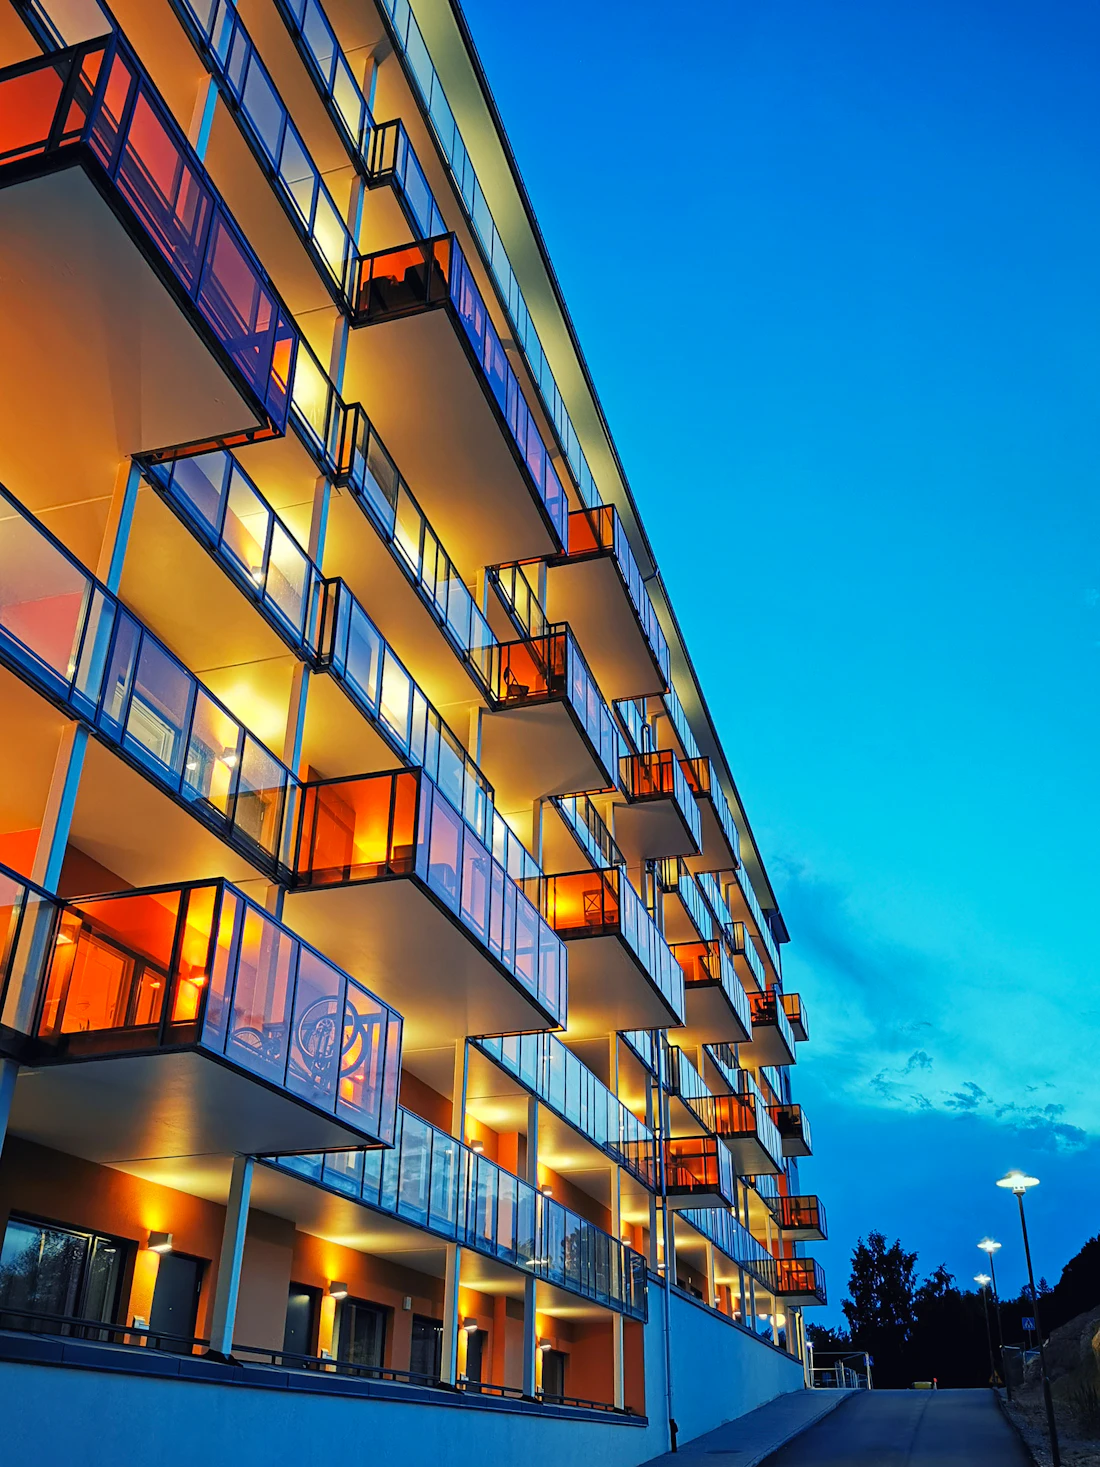
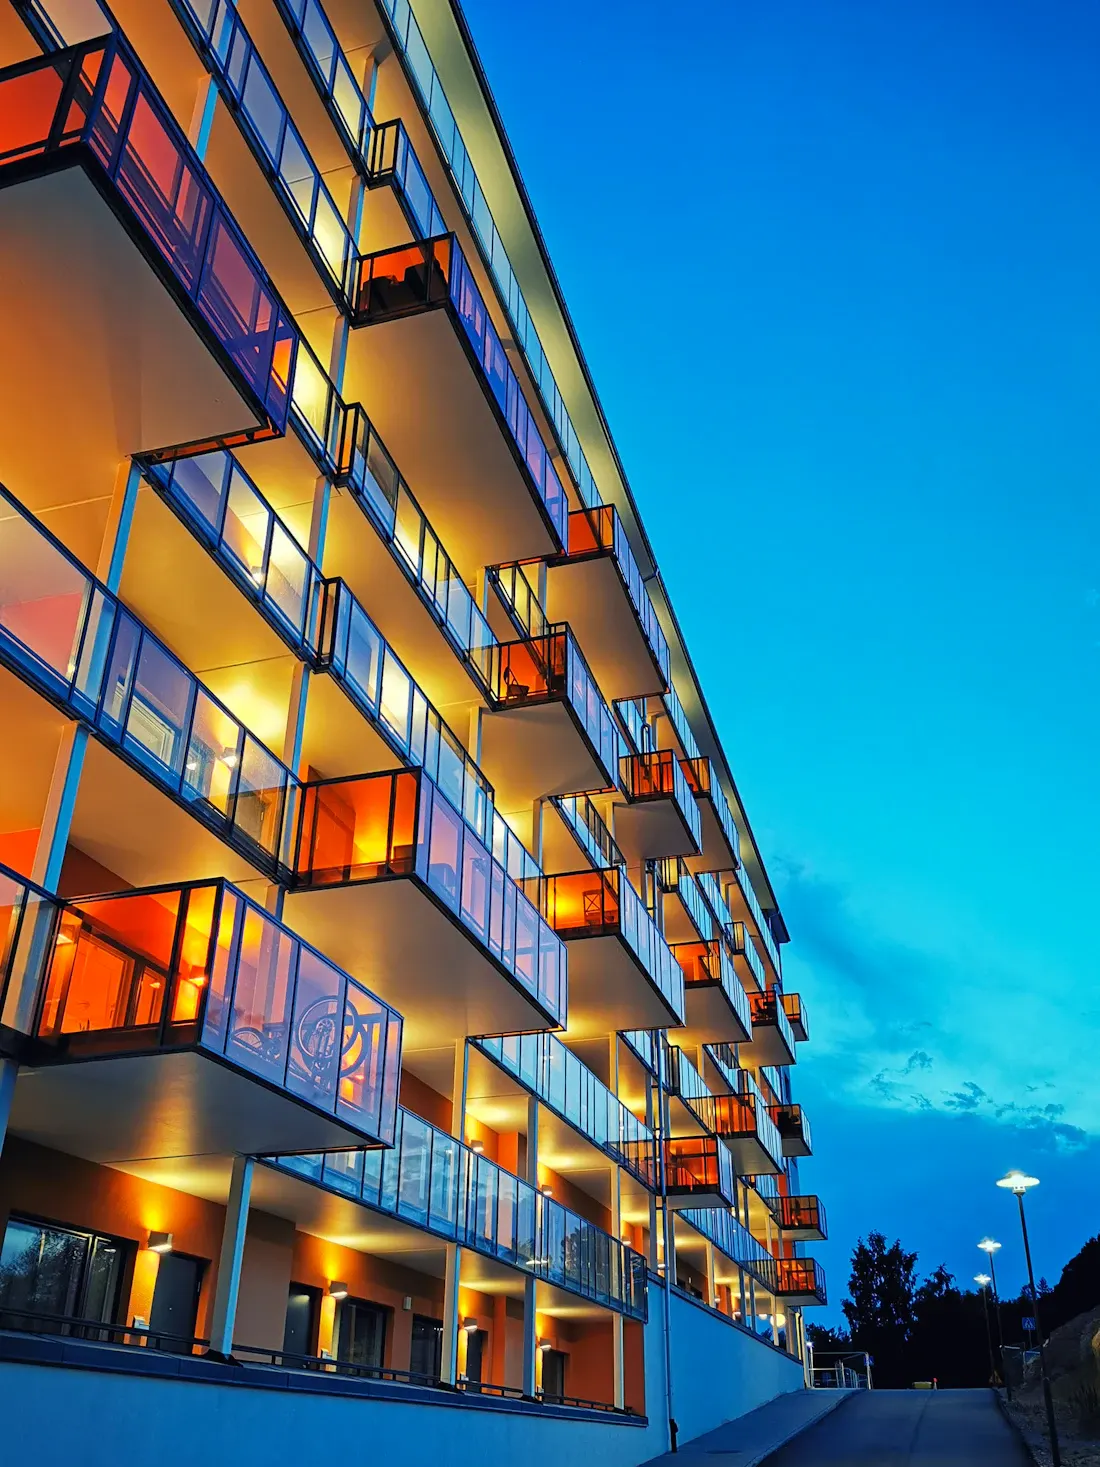
Optimize image weight site-wide to fix slow load times
The header logo alone was 215KB PNG loading on every single page
navigation, displayed at just 38px tall. Fixed the real culprits:

- logo-wordmark.png (215KB) -> logo-wordmark.webp (20.5KB): resized
  to 400px wide (2x the actual 200px max display width) and
  converted to WebP with alpha transparency preserved. 90% smaller.
- logo-navy.png (102KB) -> logo-navy.webp (11KB), footer-only and
  now lazy-loaded. 89% smaller.
- favicon.png: 512x512 (203KB) -> 256x256 (67KB), still far larger
  than any favicon actually renders.
- hero-home.webp, estate.webp, nanny.webp, diaspora-hero.webp:
  re-encoded at quality 0.78-0.80 (visually indistinguishable),
  cutting 30-40% off each of the four largest photos.
- Removed logo-icon-square.png and driver.webp, both dead weight
  no longer referenced anywhere.

Also added width/height attributes (prevents layout shift) and
fetchpriority="high" to every page's primary hero image, and
width/height to the photo-grid thumbnails.

Total referenced image weight cut by roughly 750KB. The single
biggest win is the header logo, since it's fetched on every page.

diff --git a/family.html b/family.html
@@ -46,7 +46,7 @@
 <!-- ============ HEADER ============ -->
 <header class="site-header" id="top">
   <div class="container header-inner">
-    <a href="index.html" class="brand brand-logo"><img src="assets/img/logo-wordmark.png" alt="Amana Staff — Trusted Hands" width="705" height="260"></a>
+    <a href="index.html" class="brand brand-logo"><img src="assets/img/logo-wordmark.webp" alt="Amana Staff — Trusted Hands" width="400" height="148"></a>
 
     <nav class="nav" id="primary-nav">
       <a href="family.html" aria-current="page">Family</a>
@@ -82,7 +82,7 @@
           <a href="#compare" class="btn-text">Compare our services <svg><use href="#icon-arrow"/></svg></a>
         </div>
       </div>
-      <div class="hero-figure"><img src="assets/img/nanny.webp" alt="A mother gently styling her daughter's hair at home" decoding="async"></div>
+      <div class="hero-figure"><img src="assets/img/nanny.webp" alt="A mother gently styling her daughter's hair at home" width="1350" height="1060" fetchpriority="high" decoding="async"></div>
     </div>
   </section>
 
@@ -105,27 +105,27 @@
 
       <div class="photo-grid reveal-stagger">
         <article class="photo-card" data-open-modal="family">
-          <img src="assets/img/nanny.webp" alt="A mother gently styling her daughter's hair at home" loading="lazy" decoding="async">
+          <img src="assets/img/nanny.webp" alt="A mother gently styling her daughter's hair at home" width="1350" height="1060" loading="lazy" decoding="async">
           <span class="arrow"><svg><use href="#icon-arrow"/></svg></span>
           <div class="photo-card-body"><h3>Nannies</h3><p>Childcare you can trust</p></div>
         </article>
         <article class="photo-card" data-open-modal="family">
-          <img src="assets/img/cleaning.webp" alt="A gloved hand mopping a glossy floor" loading="lazy" decoding="async">
+          <img src="assets/img/cleaning.webp" alt="A gloved hand mopping a glossy floor" width="1000" height="573" loading="lazy" decoding="async">
           <span class="arrow"><svg><use href="#icon-arrow"/></svg></span>
           <div class="photo-card-body"><h3>Housekeepers &amp; Cleaners</h3><p>Spotless, every time</p></div>
         </article>
         <article class="photo-card" data-open-modal="family">
-          <img src="assets/img/cook.webp" alt="A cook preparing a meal in a bright home kitchen" loading="lazy" decoding="async">
+          <img src="assets/img/cook.webp" alt="A cook preparing a meal in a bright home kitchen" width="1000" height="667" loading="lazy" decoding="async">
           <span class="arrow"><svg><use href="#icon-arrow"/></svg></span>
           <div class="photo-card-body"><h3>Cooks</h3><p>Meals made with care</p></div>
         </article>
         <article class="photo-card" data-open-modal="family">
-          <img src="assets/img/house-manager.webp" alt="A smiling woman organizing a shelf in a bright modern kitchen" loading="lazy" decoding="async">
+          <img src="assets/img/house-manager.webp" alt="A smiling woman organizing a shelf in a bright modern kitchen" width="1000" height="1409" loading="lazy" decoding="async">
           <span class="arrow"><svg><use href="#icon-arrow"/></svg></span>
           <div class="photo-card-body"><h3>House Managers</h3><p>Your home, expertly run</p></div>
         </article>
         <article class="photo-card" data-open-modal="family">
-          <img src="assets/img/companion.webp" alt="Two people walking arm in arm" loading="lazy" decoding="async">
+          <img src="assets/img/companion.webp" alt="Two people walking arm in arm" width="1000" height="563" loading="lazy" decoding="async">
           <span class="arrow"><svg><use href="#icon-arrow"/></svg></span>
           <div class="photo-card-body"><h3>Companions &amp; Carers</h3><p>Compassionate care at home</p></div>
         </article>
@@ -331,7 +331,7 @@
 <footer class="site-footer">
   <div class="container footer-inner">
     <div class="footer-brand">
-      <span class="brand brand-logo"><img src="assets/img/logo-navy.png" alt="Amana Staff — Trusted Hands" width="305" height="258"></span>
+      <span class="brand brand-logo"><img src="assets/img/logo-navy.webp" alt="Amana Staff — Trusted Hands" width="305" height="258" loading="lazy"></span>
       <p>Verified Hands. Trusted Homes.</p>
     </div>
     <div class="footer-links">

diff --git a/index.html b/index.html
@@ -46,7 +46,7 @@
 <!-- ============ HEADER ============ -->
 <header class="site-header" id="top">
   <div class="container header-inner">
-    <a href="index.html" class="brand brand-logo"><img src="assets/img/logo-wordmark.png" alt="Amana Staff — Trusted Hands" width="705" height="260"></a>
+    <a href="index.html" class="brand brand-logo"><img src="assets/img/logo-wordmark.webp" alt="Amana Staff — Trusted Hands" width="400" height="148"></a>
 
     <nav class="nav" id="primary-nav">
       <a href="family.html">Family</a>
@@ -72,7 +72,7 @@
 
   <!-- ============ HERO ============ -->
   <section class="hero hero-photo">
-    <div class="hero-media"><img src="assets/img/hero-home.webp" alt="A warm, softly lit living room with layered textiles and natural light"></div>
+    <div class="hero-media"><img src="assets/img/hero-home.webp" alt="A warm, softly lit living room with layered textiles and natural light" width="1700" height="1133" fetchpriority="high"></div>
     <div class="hero-chips" aria-hidden="true">
       <span class="chip c1"><svg><use href="#icon-check"/></svg>Identity verified</span>
       <span class="chip c2"><svg><use href="#icon-check"/></svg>References checked</span>
@@ -117,27 +117,27 @@
 
       <div class="photo-grid reveal-stagger">
         <article class="photo-card" data-open-modal="family">
-          <img src="assets/img/nanny.webp" alt="A mother gently styling her daughter's hair at home" loading="lazy">
+          <img src="assets/img/nanny.webp" alt="A mother gently styling her daughter's hair at home" width="1350" height="1060" loading="lazy">
           <span class="arrow"><svg><use href="#icon-arrow"/></svg></span>
           <div class="photo-card-body"><h3>Nannies</h3><p>Childcare you can trust</p></div>
         </article>
         <article class="photo-card" data-open-modal="family">
-          <img src="assets/img/cleaning.webp" alt="A gloved hand mopping a glossy floor" loading="lazy">
+          <img src="assets/img/cleaning.webp" alt="A gloved hand mopping a glossy floor" width="1000" height="573" loading="lazy">
           <span class="arrow"><svg><use href="#icon-arrow"/></svg></span>
           <div class="photo-card-body"><h3>Housekeepers &amp; Cleaners</h3><p>Spotless, every time</p></div>
         </article>
         <article class="photo-card" data-open-modal="family">
-          <img src="assets/img/cook.webp" alt="A cook preparing a meal in a bright home kitchen" loading="lazy">
+          <img src="assets/img/cook.webp" alt="A cook preparing a meal in a bright home kitchen" width="1000" height="667" loading="lazy">
           <span class="arrow"><svg><use href="#icon-arrow"/></svg></span>
           <div class="photo-card-body"><h3>Cooks</h3><p>Meals made with care</p></div>
         </article>
         <article class="photo-card" data-open-modal="family">
-          <img src="assets/img/house-manager.webp" alt="A smiling woman organizing a shelf in a bright modern kitchen" loading="lazy">
+          <img src="assets/img/house-manager.webp" alt="A smiling woman organizing a shelf in a bright modern kitchen" width="1000" height="1409" loading="lazy">
           <span class="arrow"><svg><use href="#icon-arrow"/></svg></span>
           <div class="photo-card-body"><h3>House Managers</h3><p>Your home, expertly run</p></div>
         </article>
         <article class="photo-card" data-open-modal="family">
-          <img src="assets/img/companion.webp" alt="Two people walking arm in arm" loading="lazy">
+          <img src="assets/img/companion.webp" alt="Two people walking arm in arm" width="1000" height="563" loading="lazy">
           <span class="arrow"><svg><use href="#icon-arrow"/></svg></span>
           <div class="photo-card-body"><h3>Companions &amp; Carers</h3><p>Compassionate care at home</p></div>
         </article>
@@ -298,7 +298,7 @@
 <footer class="site-footer">
   <div class="container footer-inner">
     <div class="footer-brand">
-      <span class="brand brand-logo"><img src="assets/img/logo-navy.png" alt="Amana Staff — Trusted Hands" width="305" height="258"></span>
+      <span class="brand brand-logo"><img src="assets/img/logo-navy.webp" alt="Amana Staff — Trusted Hands" width="305" height="258" loading="lazy"></span>
       <p>Verified Hands. Trusted Homes.</p>
     </div>
     <div class="footer-links">

diff --git a/training.html b/training.html
@@ -40,7 +40,7 @@
 <!-- ============ HEADER ============ -->
 <header class="site-header" id="top">
   <div class="container header-inner">
-    <a href="index.html" class="brand brand-logo"><img src="assets/img/logo-wordmark.png" alt="Amana Staff — Trusted Hands" width="705" height="260"></a>
+    <a href="index.html" class="brand brand-logo"><img src="assets/img/logo-wordmark.webp" alt="Amana Staff — Trusted Hands" width="400" height="148"></a>
 
     <nav class="nav" id="primary-nav">
       <a href="family.html">Family</a>
@@ -72,7 +72,7 @@
         <h1>Your training <em>materials.</em></h1>
         <p class="hero-lead">Enter your name and the access code your Amana contact gave you to view your modules.</p>
       </div>
-      <div class="hero-figure"><img src="assets/img/professional-portrait.webp" alt="A smiling Amana household professional at home"></div>
+      <div class="hero-figure"><img src="assets/img/professional-portrait.webp" alt="A smiling Amana household professional at home" width="1000" height="933" fetchpriority="high"></div>
     </div>
   </section>
 
@@ -114,7 +114,7 @@
 <footer class="site-footer">
   <div class="container footer-inner">
     <div class="footer-brand">
-      <span class="brand brand-logo"><img src="assets/img/logo-navy.png" alt="Amana Staff — Trusted Hands" width="305" height="258"></span>
+      <span class="brand brand-logo"><img src="assets/img/logo-navy.webp" alt="Amana Staff — Trusted Hands" width="305" height="258" loading="lazy"></span>
       <p>Verified Hands. Trusted Homes.</p>
     </div>
     <div class="footer-links">

diff --git a/diaspora.html b/diaspora.html
@@ -46,7 +46,7 @@
 <!-- ============ HEADER ============ -->
 <header class="site-header" id="top">
   <div class="container header-inner">
-    <a href="index.html" class="brand brand-logo"><img src="assets/img/logo-wordmark.png" alt="Amana Staff — Trusted Hands" width="705" height="260"></a>
+    <a href="index.html" class="brand brand-logo"><img src="assets/img/logo-wordmark.webp" alt="Amana Staff — Trusted Hands" width="400" height="148"></a>
 
     <nav class="nav" id="primary-nav">
       <a href="family.html">Family</a>
@@ -82,7 +82,7 @@
           <a href="#included" class="btn-text">See what's included <svg><use href="#icon-arrow"/></svg></a>
         </div>
       </div>
-      <div class="hero-figure"><img src="assets/img/diaspora-hero.webp" alt="A woman laughing while on a phone call at home, laptop open beside her"></div>
+      <div class="hero-figure"><img src="assets/img/diaspora-hero.webp" alt="A woman laughing while on a phone call at home, laptop open beside her" width="1200" height="1379" fetchpriority="high"></div>
     </div>
   </section>
 
@@ -209,7 +209,7 @@
 <footer class="site-footer">
   <div class="container footer-inner">
     <div class="footer-brand">
-      <span class="brand brand-logo"><img src="assets/img/logo-navy.png" alt="Amana Staff — Trusted Hands" width="305" height="258"></span>
+      <span class="brand brand-logo"><img src="assets/img/logo-navy.webp" alt="Amana Staff — Trusted Hands" width="305" height="258" loading="lazy"></span>
       <p>Verified Hands. Trusted Homes.</p>
     </div>
     <div class="footer-links">

diff --git a/professionals.html b/professionals.html
@@ -40,7 +40,7 @@
 <!-- ============ HEADER ============ -->
 <header class="site-header" id="top">
   <div class="container header-inner">
-    <a href="index.html" class="brand brand-logo"><img src="assets/img/logo-wordmark.png" alt="Amana Staff — Trusted Hands" width="705" height="260"></a>
+    <a href="index.html" class="brand brand-logo"><img src="assets/img/logo-wordmark.webp" alt="Amana Staff — Trusted Hands" width="400" height="148"></a>
 
     <nav class="nav" id="primary-nav">
       <a href="family.html">Family</a>
@@ -76,7 +76,7 @@
           <a href="#career-path" class="btn-text">See the career path <svg><use href="#icon-arrow"/></svg></a>
         </div>
       </div>
-      <div class="hero-figure"><img src="assets/img/professional-portrait.webp" alt="A smiling Amana household professional at home"></div>
+      <div class="hero-figure"><img src="assets/img/professional-portrait.webp" alt="A smiling Amana household professional at home" width="1000" height="933" fetchpriority="high"></div>
     </div>
   </section>
 
@@ -299,7 +299,7 @@
 <footer class="site-footer">
   <div class="container footer-inner">
     <div class="footer-brand">
-      <span class="brand brand-logo"><img src="assets/img/logo-navy.png" alt="Amana Staff — Trusted Hands" width="305" height="258"></span>
+      <span class="brand brand-logo"><img src="assets/img/logo-navy.webp" alt="Amana Staff — Trusted Hands" width="305" height="258" loading="lazy"></span>
       <p>Verified Hands. Trusted Homes.</p>
     </div>
     <div class="footer-links">

diff --git a/business.html b/business.html
@@ -39,7 +39,7 @@
 <!-- ============ HEADER ============ -->
 <header class="site-header" id="top">
   <div class="container header-inner">
-    <a href="index.html" class="brand brand-logo"><img src="assets/img/logo-wordmark.png" alt="Amana Staff — Trusted Hands" width="705" height="260"></a>
+    <a href="index.html" class="brand brand-logo"><img src="assets/img/logo-wordmark.webp" alt="Amana Staff — Trusted Hands" width="400" height="148"></a>
 
     <nav class="nav" id="primary-nav">
       <a href="family.html">Family</a>
@@ -75,7 +75,7 @@
           <a href="#how-it-works" class="btn-text">See how it works <svg><use href="#icon-arrow"/></svg></a>
         </div>
       </div>
-      <div class="hero-figure"><img src="assets/img/estate.webp" alt="A residential apartment block glowing at dusk"></div>
+      <div class="hero-figure"><img src="assets/img/estate.webp" alt="A residential apartment block glowing at dusk" width="1100" height="1467" fetchpriority="high"></div>
     </div>
   </section>
 
@@ -256,7 +256,7 @@
 <footer class="site-footer">
   <div class="container footer-inner">
     <div class="footer-brand">
-      <span class="brand brand-logo"><img src="assets/img/logo-navy.png" alt="Amana Staff — Trusted Hands" width="305" height="258"></span>
+      <span class="brand brand-logo"><img src="assets/img/logo-navy.webp" alt="Amana Staff — Trusted Hands" width="305" height="258" loading="lazy"></span>
       <p>Verified Hands. Trusted Homes.</p>
     </div>
     <div class="footer-links">

diff --git a/candidate-code-of-conduct.html b/candidate-code-of-conduct.html
@@ -46,7 +46,7 @@
 <!-- ============ HEADER ============ -->
 <header class="site-header" id="top">
   <div class="container header-inner">
-    <a href="index.html" class="brand brand-logo"><img src="assets/img/logo-wordmark.png" alt="Amana Staff — Trusted Hands" width="705" height="260"></a>
+    <a href="index.html" class="brand brand-logo"><img src="assets/img/logo-wordmark.webp" alt="Amana Staff — Trusted Hands" width="400" height="148"></a>
 
     <nav class="nav" id="primary-nav">
       <a href="family.html">Family</a>
@@ -109,7 +109,7 @@
 <footer class="site-footer">
   <div class="container footer-inner">
     <div class="footer-brand">
-      <span class="brand brand-logo"><img src="assets/img/logo-navy.png" alt="Amana Staff — Trusted Hands" width="305" height="258"></span>
+      <span class="brand brand-logo"><img src="assets/img/logo-navy.webp" alt="Amana Staff — Trusted Hands" width="305" height="258" loading="lazy"></span>
       <p>Verified Hands. Trusted Homes.</p>
     </div>
     <div class="footer-links">

diff --git a/client-code-of-conduct.html b/client-code-of-conduct.html
@@ -46,7 +46,7 @@
 <!-- ============ HEADER ============ -->
 <header class="site-header" id="top">
   <div class="container header-inner">
-    <a href="index.html" class="brand brand-logo"><img src="assets/img/logo-wordmark.png" alt="Amana Staff — Trusted Hands" width="705" height="260"></a>
+    <a href="index.html" class="brand brand-logo"><img src="assets/img/logo-wordmark.webp" alt="Amana Staff — Trusted Hands" width="400" height="148"></a>
 
     <nav class="nav" id="primary-nav">
       <a href="family.html">Family</a>
@@ -107,7 +107,7 @@
 <footer class="site-footer">
   <div class="container footer-inner">
     <div class="footer-brand">
-      <span class="brand brand-logo"><img src="assets/img/logo-navy.png" alt="Amana Staff — Trusted Hands" width="305" height="258"></span>
+      <span class="brand brand-logo"><img src="assets/img/logo-navy.webp" alt="Amana Staff — Trusted Hands" width="305" height="258" loading="lazy"></span>
       <p>Verified Hands. Trusted Homes.</p>
     </div>
     <div class="footer-links">

diff --git a/privacy.html b/privacy.html
@@ -46,7 +46,7 @@
 <!-- ============ HEADER ============ -->
 <header class="site-header" id="top">
   <div class="container header-inner">
-    <a href="index.html" class="brand brand-logo"><img src="assets/img/logo-wordmark.png" alt="Amana Staff — Trusted Hands" width="705" height="260"></a>
+    <a href="index.html" class="brand brand-logo"><img src="assets/img/logo-wordmark.webp" alt="Amana Staff — Trusted Hands" width="400" height="148"></a>
 
     <nav class="nav" id="primary-nav">
       <a href="family.html">Family</a>
@@ -113,7 +113,7 @@
 <footer class="site-footer">
   <div class="container footer-inner">
     <div class="footer-brand">
-      <span class="brand brand-logo"><img src="assets/img/logo-navy.png" alt="Amana Staff — Trusted Hands" width="305" height="258"></span>
+      <span class="brand brand-logo"><img src="assets/img/logo-navy.webp" alt="Amana Staff — Trusted Hands" width="305" height="258" loading="lazy"></span>
       <p>Verified Hands. Trusted Homes.</p>
     </div>
     <div class="footer-links">

diff --git a/admin.html b/admin.html
@@ -92,7 +92,7 @@
   <header class="ops-header">
     <div class="container">
       <div>
-        <a href="index.html" class="brand brand-logo"><img src="assets/img/logo-wordmark.png" alt="Amana Staff — Trusted Hands" width="705" height="260"></a>
+        <a href="index.html" class="brand brand-logo"><img src="assets/img/logo-wordmark.webp" alt="Amana Staff — Trusted Hands" width="400" height="148"></a>
         <div class="tag">Admin dashboard</div>
       </div>
       <div class="ops-actions">
